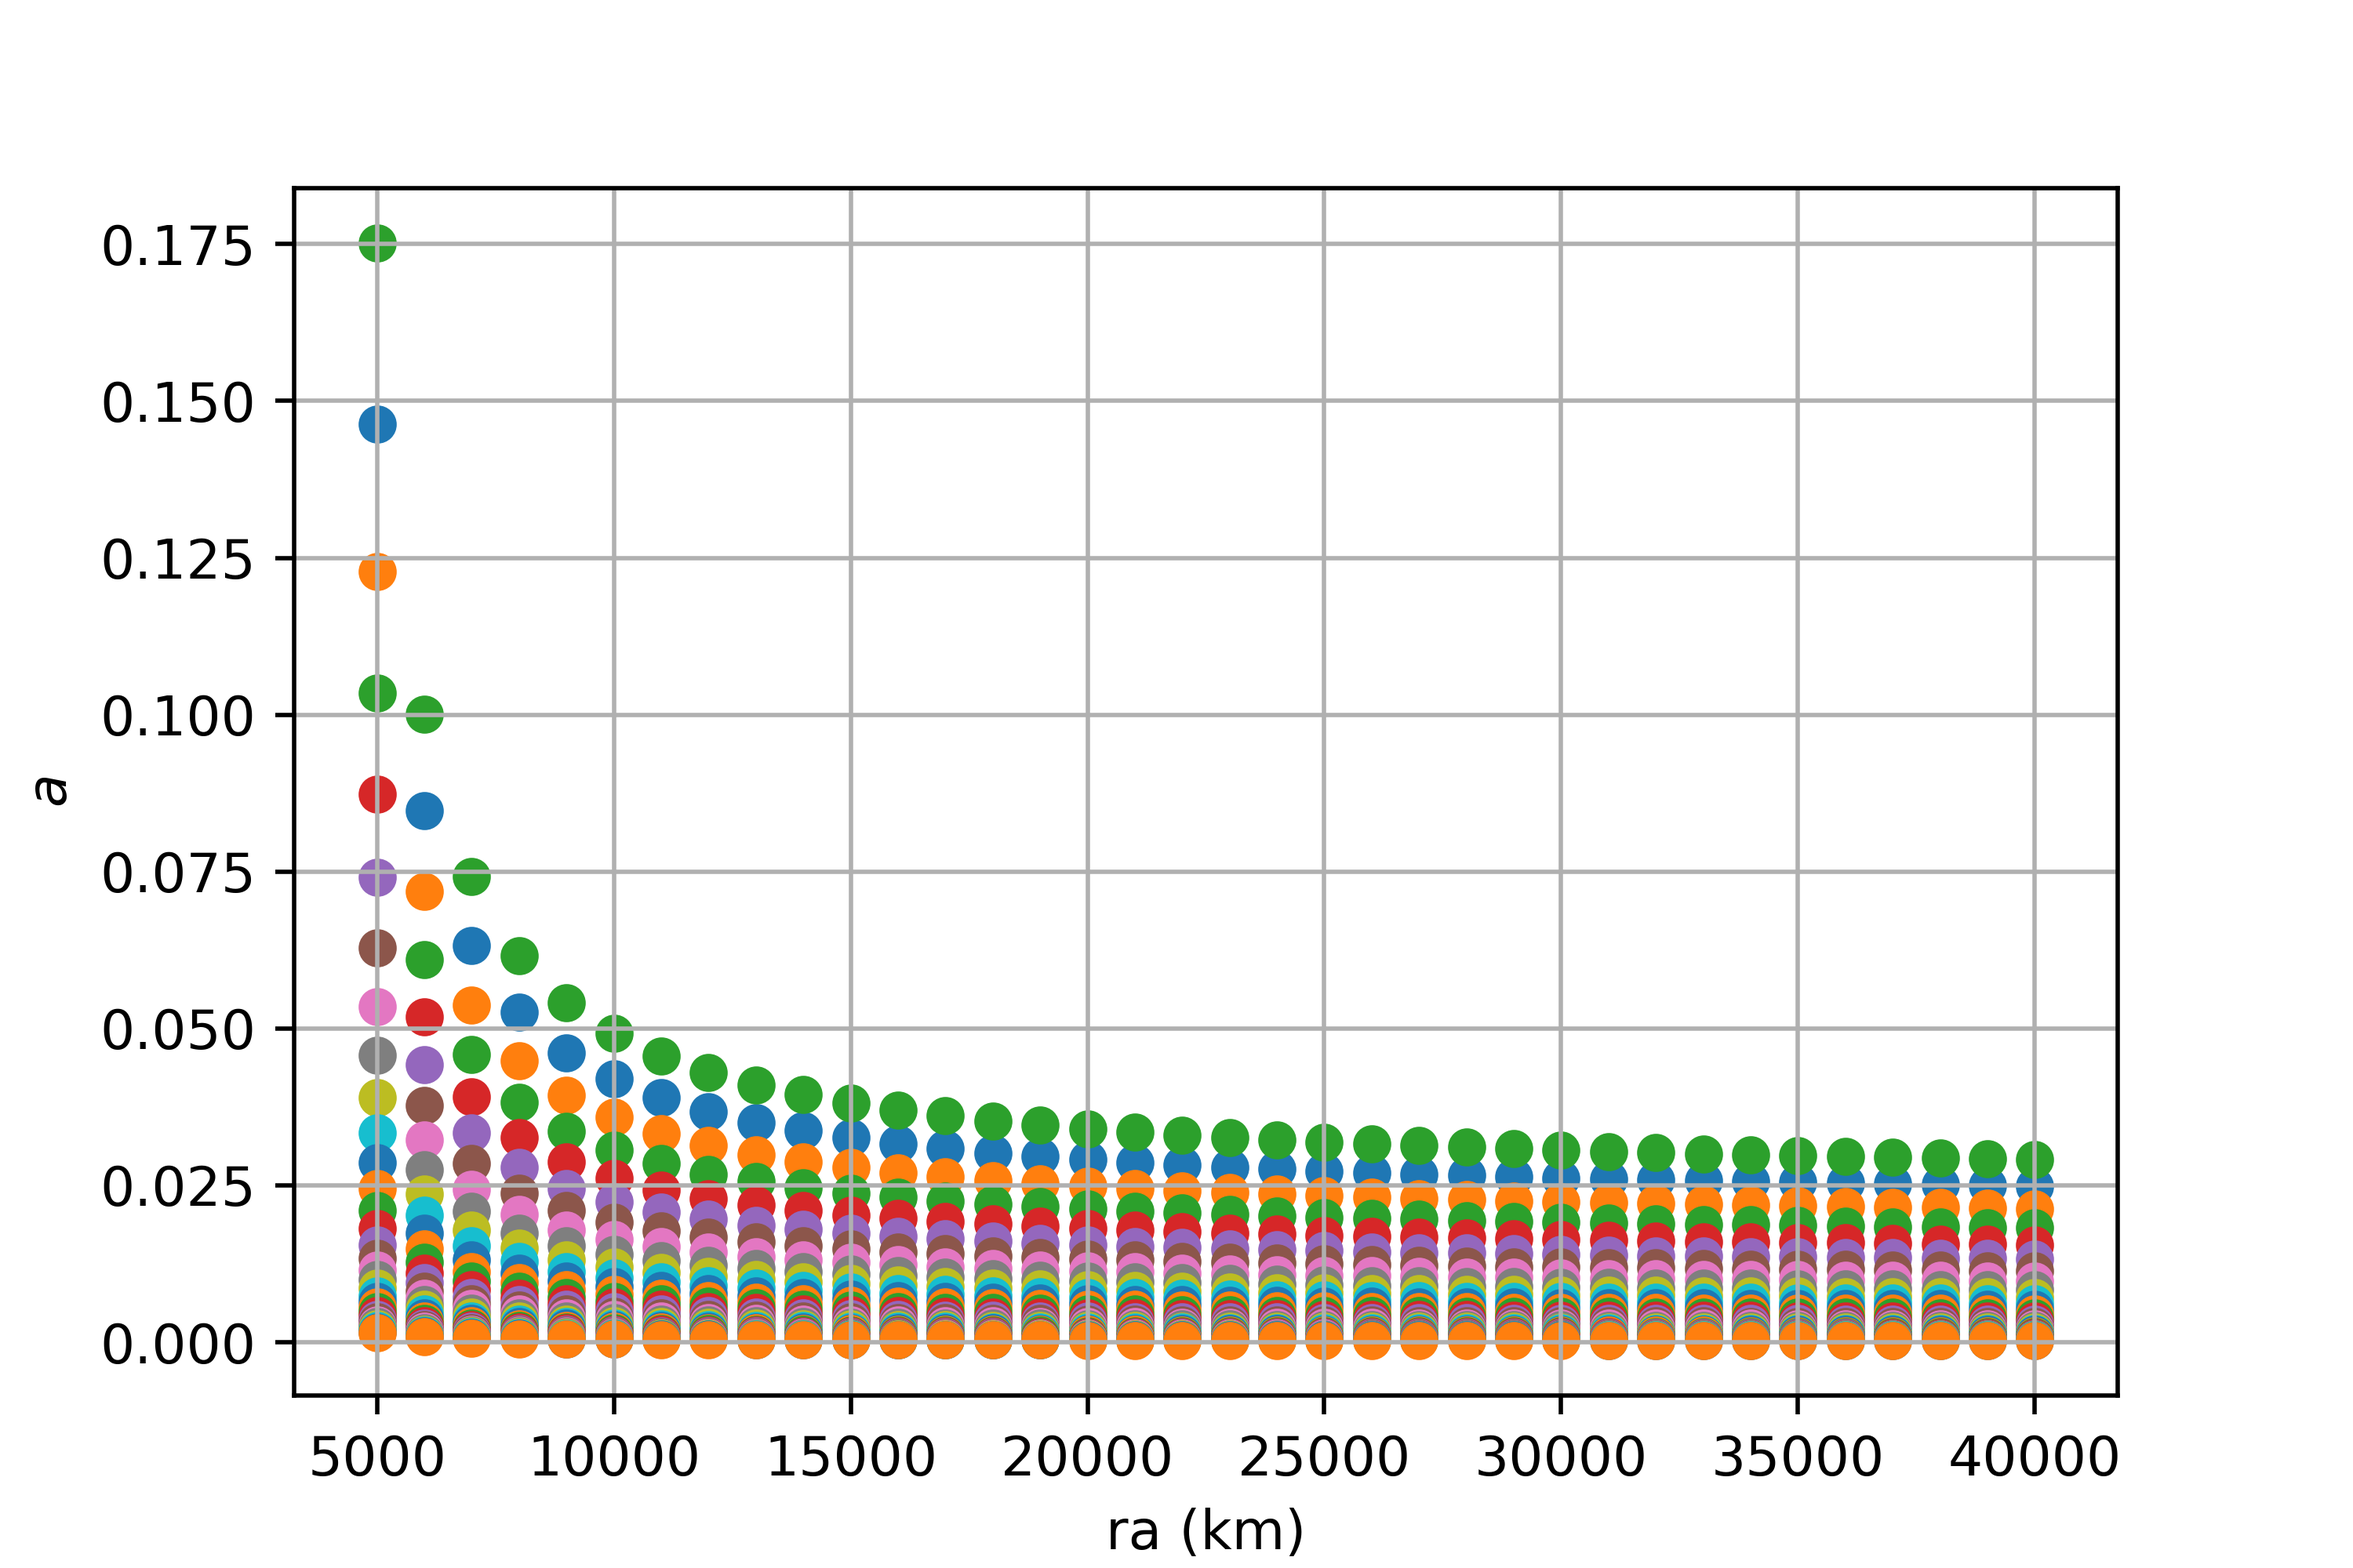
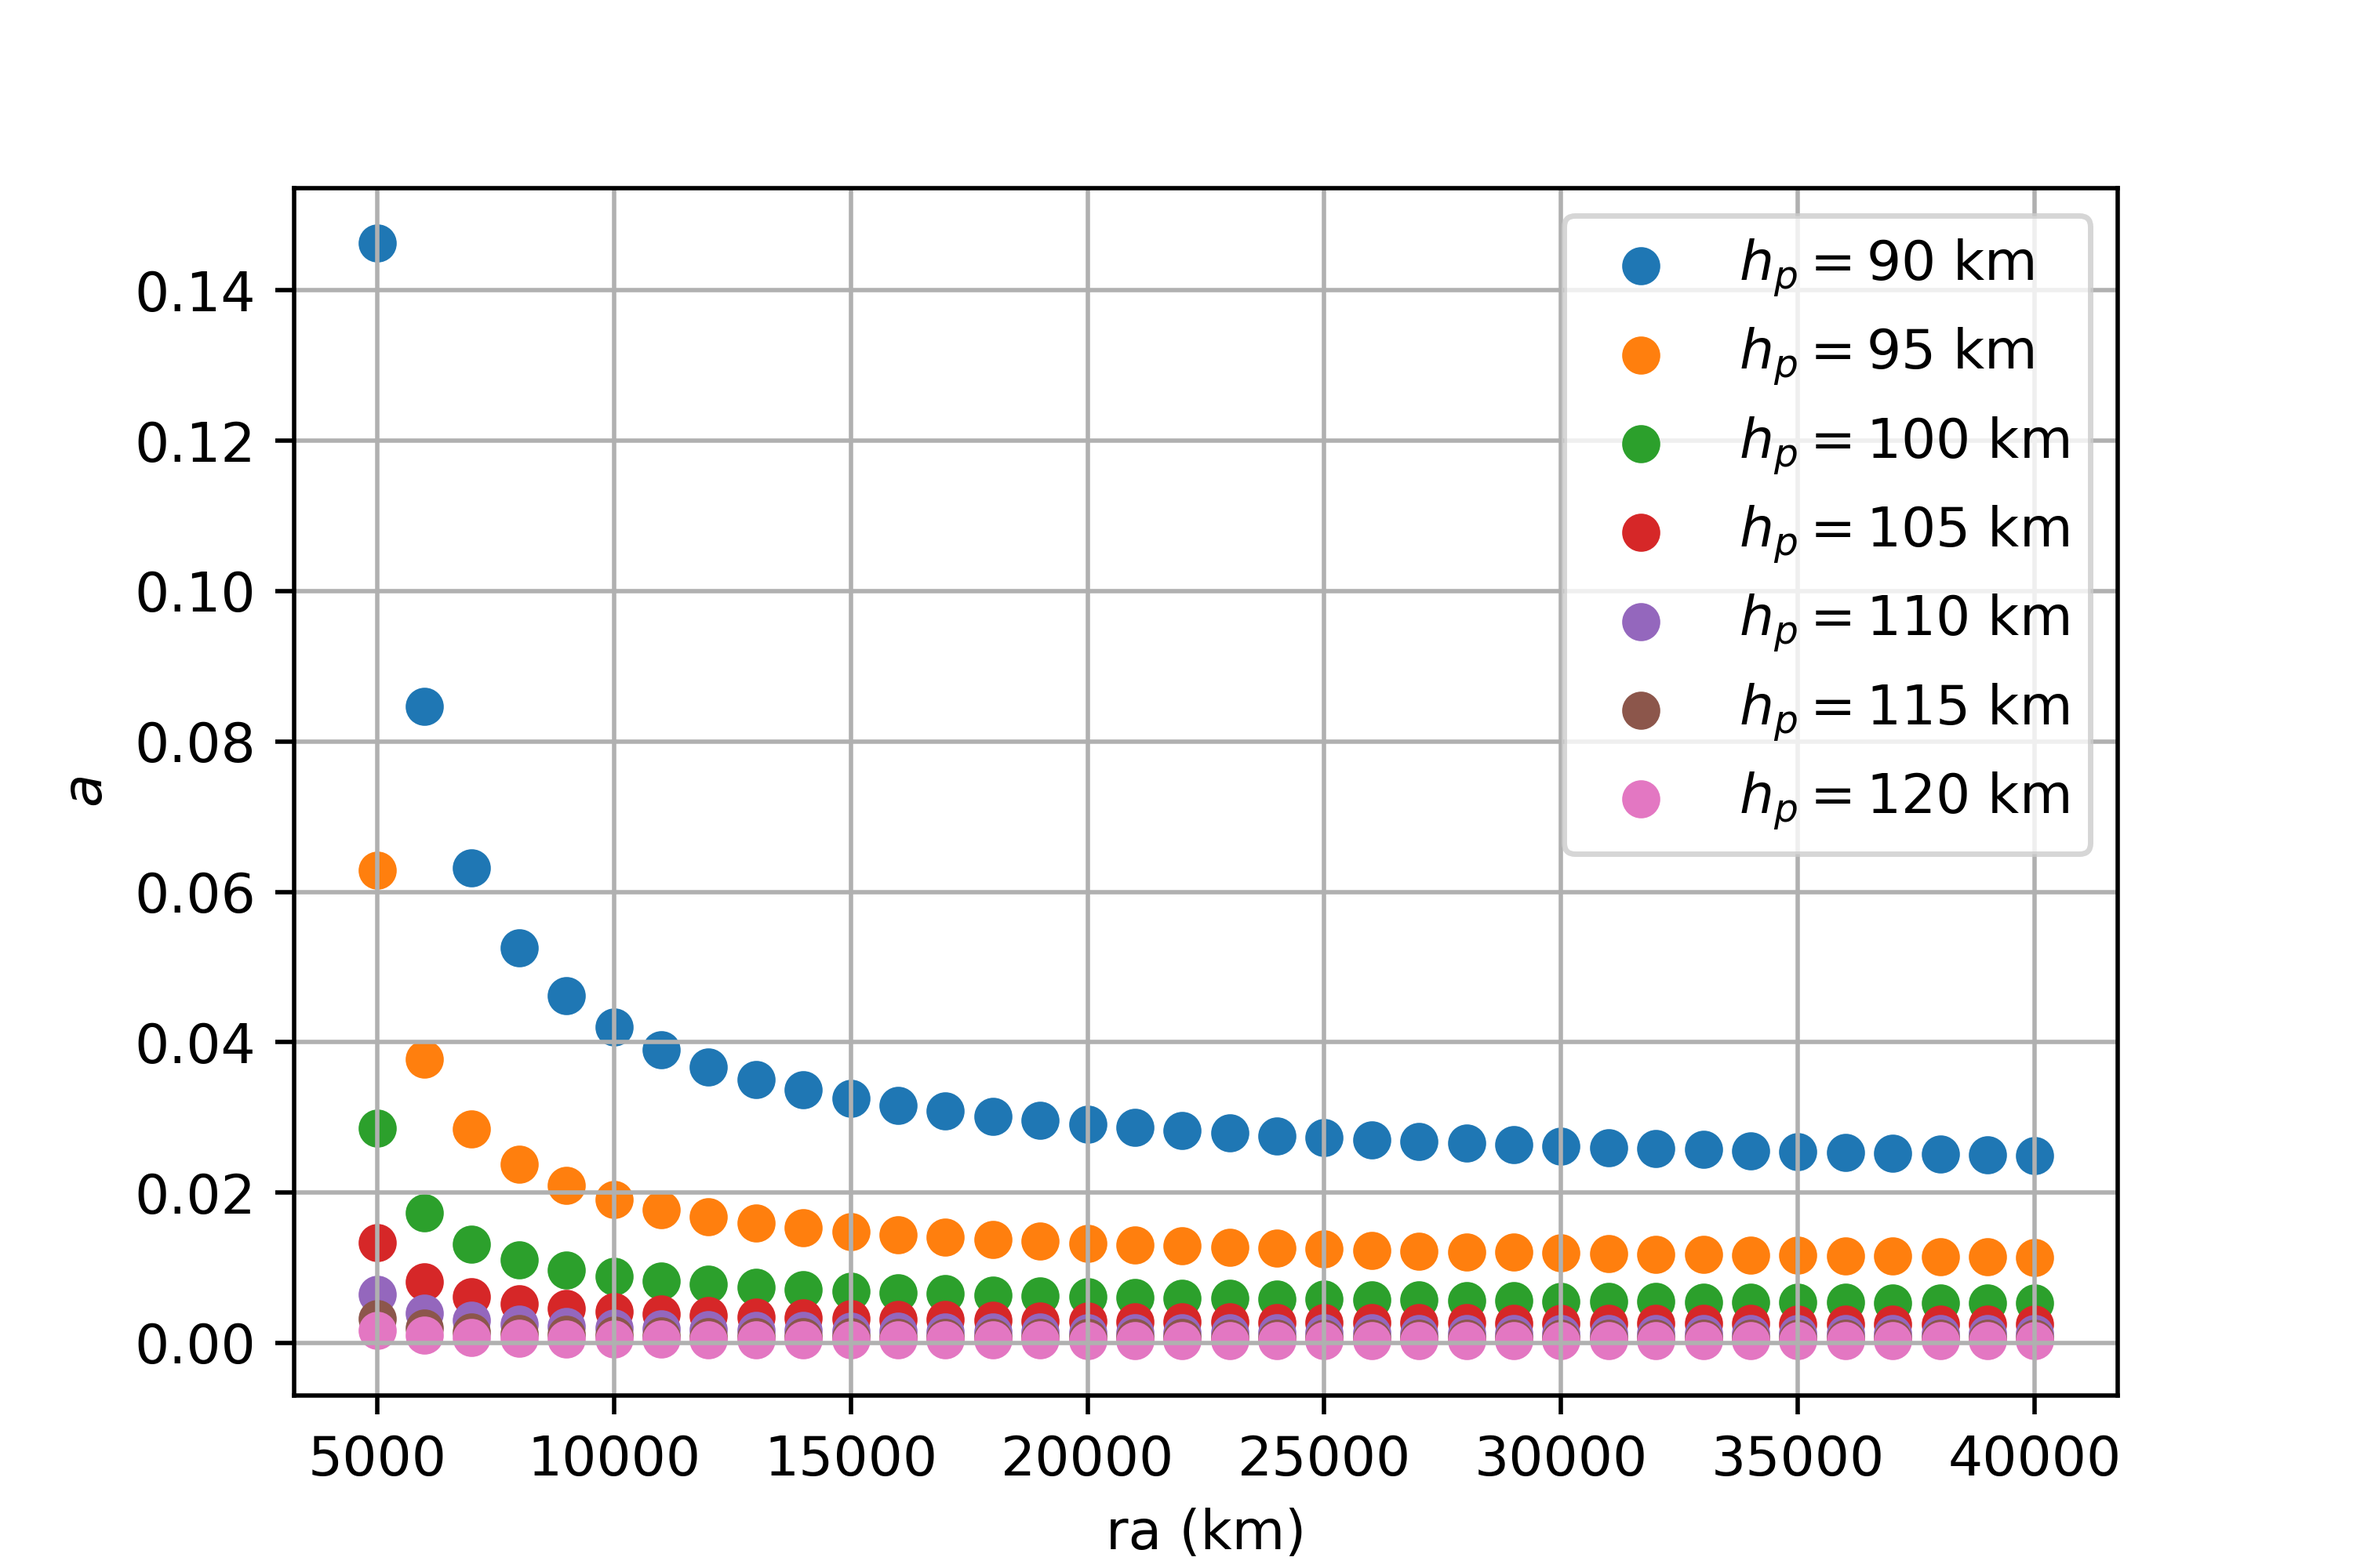
density is being weird?

diff --git a/data_corelation.py b/data_corelation.py
@@ -202,11 +202,21 @@ energy_diff_array = array_conversion(np.divide(energy_diff,1000))
 # fig_3D.savefig("all_sims_figures/3d_a_drag0_energy.png")
 
 fig= plt.figure(dpi=500, figsize=[6,4])
-for i in range(len(rp_list)):
+for i in range(0,len(rp_list),5):
     plt.scatter([row[i] for row in ra_array], [row[i] for row in a_coeff_array], marker='o', label = f'$h_p = {int(rp_list[i])}$ km')   
-# plt.legend();
+plt.legend();
 plt.grid()
 plt.xlabel("ra (km)")
 plt.ylabel("$a$")
 fig.savefig("all_views/a_coefficient/a_coeff_ra.png")
+fig.clear()
+
+fig= plt.figure(dpi=500, figsize=[6,4])
+for i in range(0,len(rp_list),10):
+    plt.scatter([row[i] for row in rho0_array], [row[i] for row in c_coeff_array], marker='o', label = f'$h_p = {int(rp_list[i])}$ km')   
+plt.legend();
+plt.grid()
+plt.xlabel(r"$\rho_0 (kg/m^3)$")
+plt.ylabel("$c$")
+fig.savefig("all_views/c_coefficient/c_coeff_rho0.png")
 fig.clear()
